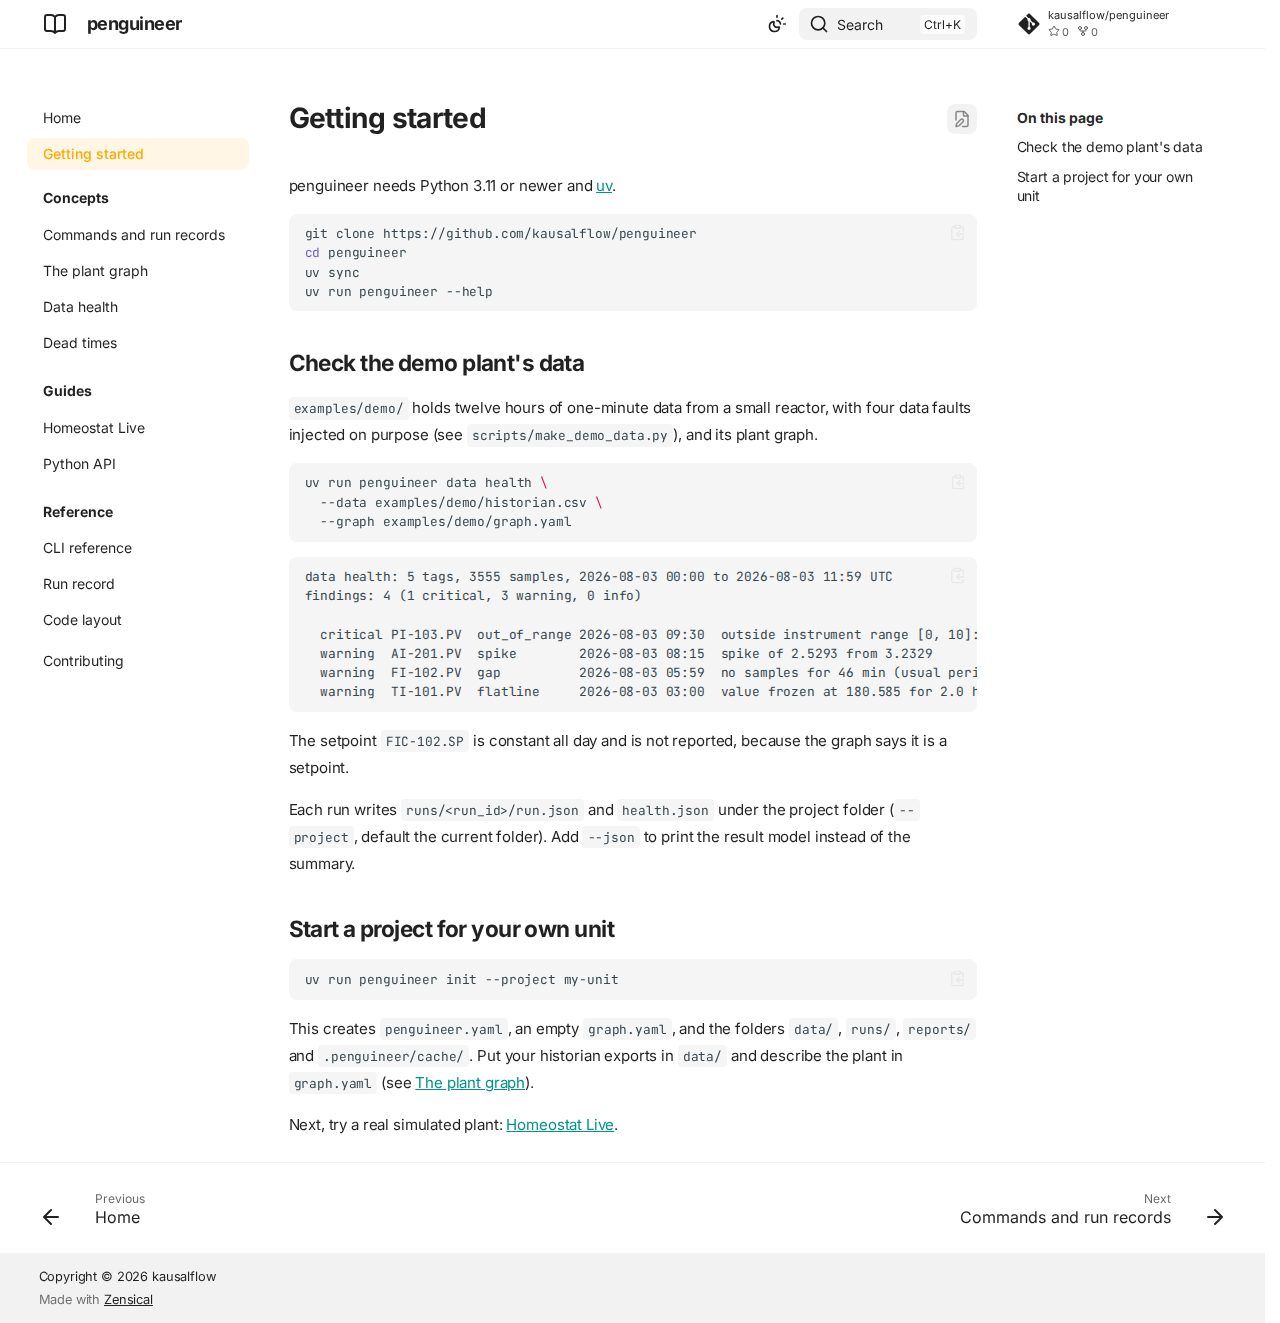
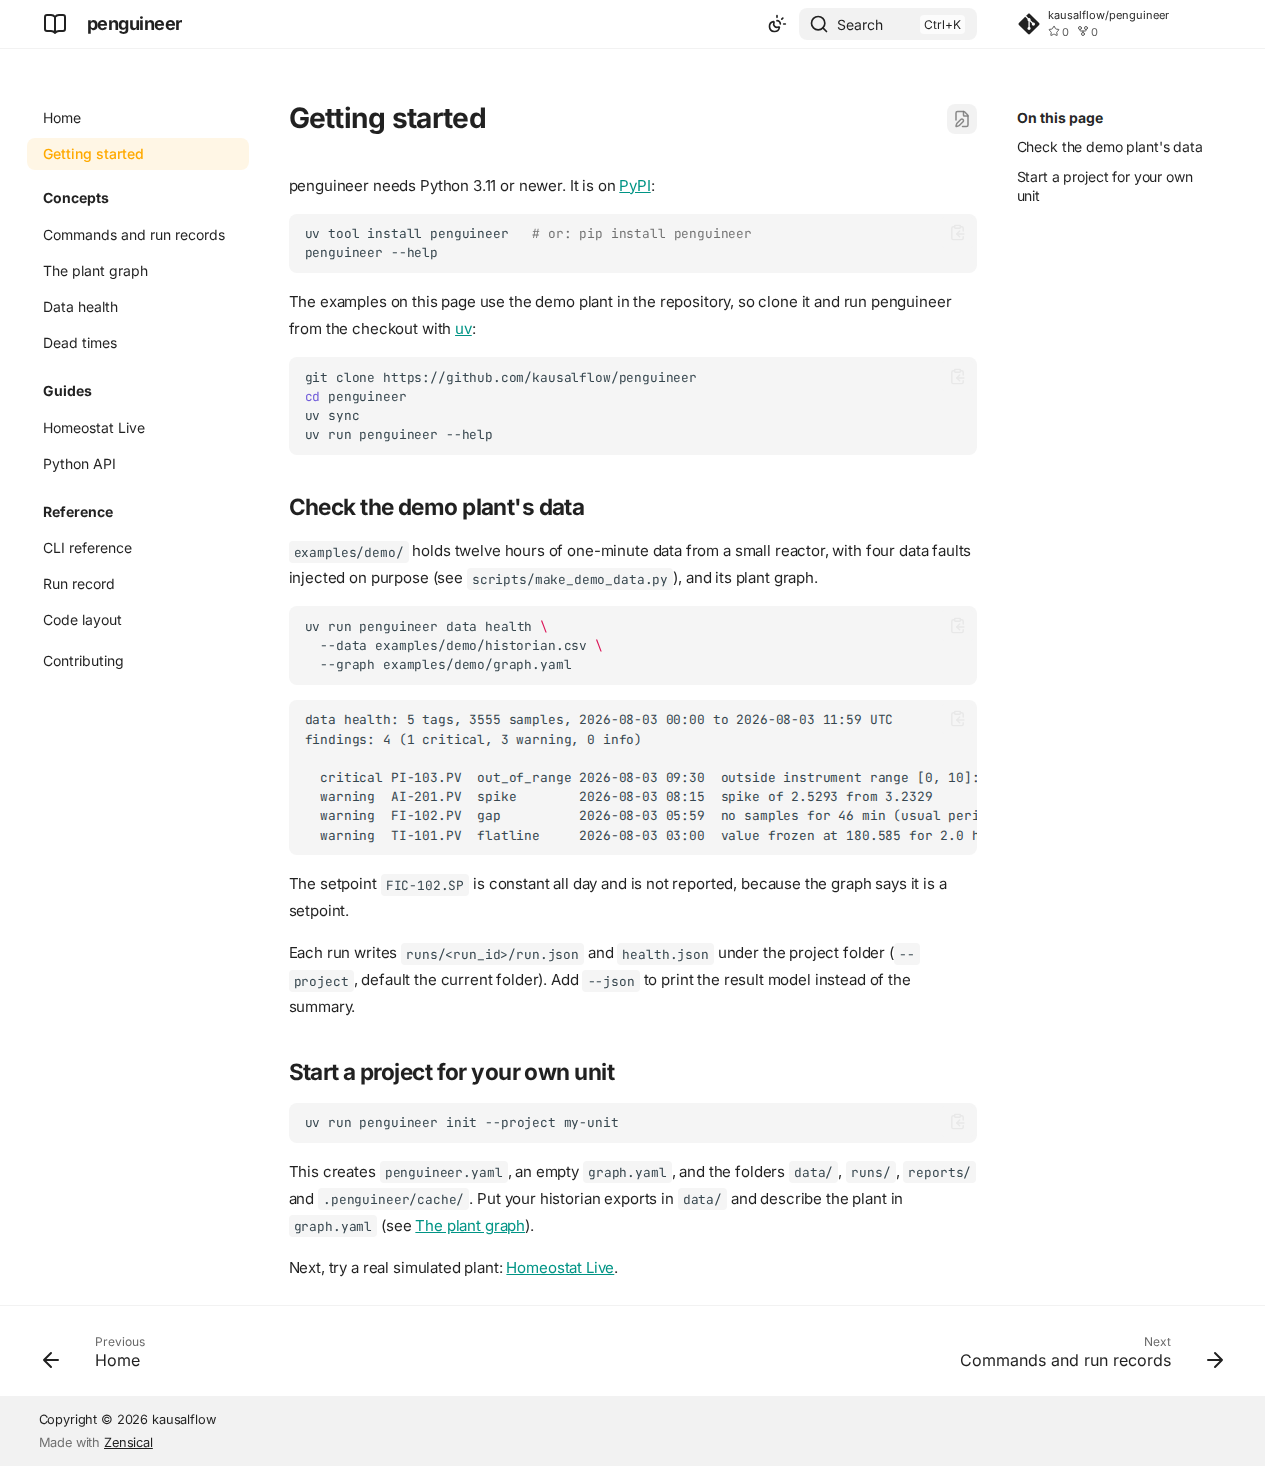
Deploying to gh-pages from @ kausalflow/penguineer@b5f411754c6cf1eea8a0dfbe62071f349a8e955d 🚀

diff --git a/getting-started/index.html b/getting-started/index.html
@@ -928,30 +928,34 @@
 
 
 <h1 id="getting-started">Getting started<a class="headerlink" href="#getting-started" title="Permanent link">&para;</a></h1>
-<p>penguineer needs Python 3.11 or newer and <a href="https://docs.astral.sh/uv/">uv</a>.</p>
-<div class="language-bash highlight"><pre><span></span><code><span id="__span-0-1"><a id="__codelineno-0-1" name="__codelineno-0-1" href="#__codelineno-0-1"></a>git<span class="w"> </span>clone<span class="w"> </span>https://github.com/kausalflow/penguineer
-</span><span id="__span-0-2"><a id="__codelineno-0-2" name="__codelineno-0-2" href="#__codelineno-0-2"></a><span class="nb">cd</span><span class="w"> </span>penguineer
-</span><span id="__span-0-3"><a id="__codelineno-0-3" name="__codelineno-0-3" href="#__codelineno-0-3"></a>uv<span class="w"> </span>sync
-</span><span id="__span-0-4"><a id="__codelineno-0-4" name="__codelineno-0-4" href="#__codelineno-0-4"></a>uv<span class="w"> </span>run<span class="w"> </span>penguineer<span class="w"> </span>--help
+<p>penguineer needs Python 3.11 or newer. It is on <a href="https://pypi.org/project/penguineer/">PyPI</a>:</p>
+<div class="language-bash highlight"><pre><span></span><code><span id="__span-0-1"><a id="__codelineno-0-1" name="__codelineno-0-1" href="#__codelineno-0-1"></a>uv<span class="w"> </span>tool<span class="w"> </span>install<span class="w"> </span>penguineer<span class="w">   </span><span class="c1"># or: pip install penguineer</span>
+</span><span id="__span-0-2"><a id="__codelineno-0-2" name="__codelineno-0-2" href="#__codelineno-0-2"></a>penguineer<span class="w"> </span>--help
+</span></code></pre></div>
+<p>The examples on this page use the demo plant in the repository, so clone it and run penguineer from the checkout with <a href="https://docs.astral.sh/uv/">uv</a>:</p>
+<div class="language-bash highlight"><pre><span></span><code><span id="__span-1-1"><a id="__codelineno-1-1" name="__codelineno-1-1" href="#__codelineno-1-1"></a>git<span class="w"> </span>clone<span class="w"> </span>https://github.com/kausalflow/penguineer
+</span><span id="__span-1-2"><a id="__codelineno-1-2" name="__codelineno-1-2" href="#__codelineno-1-2"></a><span class="nb">cd</span><span class="w"> </span>penguineer
+</span><span id="__span-1-3"><a id="__codelineno-1-3" name="__codelineno-1-3" href="#__codelineno-1-3"></a>uv<span class="w"> </span>sync
+</span><span id="__span-1-4"><a id="__codelineno-1-4" name="__codelineno-1-4" href="#__codelineno-1-4"></a>uv<span class="w"> </span>run<span class="w"> </span>penguineer<span class="w"> </span>--help
 </span></code></pre></div>
 <h2 id="check-the-demo-plants-data">Check the demo plant's data<a class="headerlink" href="#check-the-demo-plants-data" title="Permanent link">&para;</a></h2>
 <p><code>examples/demo/</code> holds twelve hours of one-minute data from a small reactor, with four data faults injected on purpose (see <code>scripts/make_demo_data.py</code>), and its plant graph.</p>
-<div class="language-bash highlight"><pre><span></span><code><span id="__span-1-1"><a id="__codelineno-1-1" name="__codelineno-1-1" href="#__codelineno-1-1"></a>uv<span class="w"> </span>run<span class="w"> </span>penguineer<span class="w"> </span>data<span class="w"> </span>health<span class="w"> </span><span class="se">\</span>
-</span><span id="__span-1-2"><a id="__codelineno-1-2" name="__codelineno-1-2" href="#__codelineno-1-2"></a><span class="w">  </span>--data<span class="w"> </span>examples/demo/historian.csv<span class="w"> </span><span class="se">\</span>
-</span><span id="__span-1-3"><a id="__codelineno-1-3" name="__codelineno-1-3" href="#__codelineno-1-3"></a><span class="w">  </span>--graph<span class="w"> </span>examples/demo/graph.yaml
+<div class="language-bash highlight"><pre><span></span><code><span id="__span-2-1"><a id="__codelineno-2-1" name="__codelineno-2-1" href="#__codelineno-2-1"></a>uv<span class="w"> </span>run<span class="w"> </span>penguineer<span class="w"> </span>data<span class="w"> </span>health<span class="w"> </span><span class="se">\</span>
+</span><span id="__span-2-2"><a id="__codelineno-2-2" name="__codelineno-2-2" href="#__codelineno-2-2"></a><span class="w">  </span>--data<span class="w"> </span>examples/demo/historian.csv<span class="w"> </span><span class="se">\</span>
+</span><span id="__span-2-3"><a id="__codelineno-2-3" name="__codelineno-2-3" href="#__codelineno-2-3"></a><span class="w">  </span>--graph<span class="w"> </span>examples/demo/graph.yaml
 </span></code></pre></div>
-<div class="language-text highlight"><pre><span></span><code><span id="__span-2-1"><a id="__codelineno-2-1" name="__codelineno-2-1" href="#__codelineno-2-1"></a>data health: 5 tags, 3555 samples, 2026-08-03 00:00 to 2026-08-03 11:59 UTC
-</span><span id="__span-2-2"><a id="__codelineno-2-2" name="__codelineno-2-2" href="#__codelineno-2-2"></a>findings: 4 (1 critical, 3 warning, 0 info)
-</span><span id="__span-2-3"><a id="__codelineno-2-3" name="__codelineno-2-3" href="#__codelineno-2-3"></a>
-</span><span id="__span-2-4"><a id="__codelineno-2-4" name="__codelineno-2-4" href="#__codelineno-2-4"></a>  critical PI-103.PV  out_of_range 2026-08-03 09:30  outside instrument range [0, 10]: min 10.918, max 11.114
-</span><span id="__span-2-5"><a id="__codelineno-2-5" name="__codelineno-2-5" href="#__codelineno-2-5"></a>  warning  AI-201.PV  spike        2026-08-03 08:15  spike of 2.5293 from 3.2329
-</span><span id="__span-2-6"><a id="__codelineno-2-6" name="__codelineno-2-6" href="#__codelineno-2-6"></a>  warning  FI-102.PV  gap          2026-08-03 05:59  no samples for 46 min (usual period 60 s)
-</span><span id="__span-2-7"><a id="__codelineno-2-7" name="__codelineno-2-7" href="#__codelineno-2-7"></a>  warning  TI-101.PV  flatline     2026-08-03 03:00  value frozen at 180.585 for 2.0 h
+<div class="language-text highlight"><pre><span></span><code><span id="__span-3-1"><a id="__codelineno-3-1" name="__codelineno-3-1" href="#__codelineno-3-1"></a>data health: 5 tags, 3555 samples, 2026-08-03 00:00 to 2026-08-03 11:59 UTC
+</span><span id="__span-3-2"><a id="__codelineno-3-2" name="__codelineno-3-2" href="#__codelineno-3-2"></a>findings: 4 (1 critical, 3 warning, 0 info)
+</span><span id="__span-3-3"><a id="__codelineno-3-3" name="__codelineno-3-3" href="#__codelineno-3-3"></a>
+</span><span id="__span-3-4"><a id="__codelineno-3-4" name="__codelineno-3-4" href="#__codelineno-3-4"></a>  critical PI-103.PV  out_of_range 2026-08-03 09:30  outside instrument range [0, 10]: min 10.918, max 11.114
+</span><span id="__span-3-5"><a id="__codelineno-3-5" name="__codelineno-3-5" href="#__codelineno-3-5"></a>  warning  AI-201.PV  spike        2026-08-03 08:15  spike of 2.5293 from 3.2329
+</span><span id="__span-3-6"><a id="__codelineno-3-6" name="__codelineno-3-6" href="#__codelineno-3-6"></a>  warning  FI-102.PV  gap          2026-08-03 05:59  no samples for 46 min (usual period 60 s)
+</span><span id="__span-3-7"><a id="__codelineno-3-7" name="__codelineno-3-7" href="#__codelineno-3-7"></a>  warning  TI-101.PV  flatline     2026-08-03 03:00  value frozen at 180.585 for 2.0 h
 </span></code></pre></div>
 <p>The setpoint <code>FIC-102.SP</code> is constant all day and is not reported, because the graph says it is a setpoint.</p>
 <p>Each run writes <code>runs/&lt;run_id&gt;/run.json</code> and <code>health.json</code> under the project folder (<code>--project</code>, default the current folder). Add <code>--json</code> to print the result model instead of the summary.</p>
 <h2 id="start-a-project-for-your-own-unit">Start a project for your own unit<a class="headerlink" href="#start-a-project-for-your-own-unit" title="Permanent link">&para;</a></h2>
-<div class="language-bash highlight"><pre><span></span><code><span id="__span-3-1"><a id="__codelineno-3-1" name="__codelineno-3-1" href="#__codelineno-3-1"></a>uv<span class="w"> </span>run<span class="w"> </span>penguineer<span class="w"> </span>init<span class="w"> </span>--project<span class="w"> </span>my-unit
+<div class="language-bash highlight"><pre><span></span><code><span id="__span-4-1"><a id="__codelineno-4-1" name="__codelineno-4-1" href="#__codelineno-4-1"></a>uv<span class="w"> </span>run<span class="w"> </span>penguineer<span class="w"> </span>init<span class="w"> </span>--project<span class="w"> </span>my-unit
 </span></code></pre></div>
 <p>This creates <code>penguineer.yaml</code>, an empty <code>graph.yaml</code>, and the folders <code>data/</code>, <code>runs/</code>, <code>reports/</code> and <code>.penguineer/cache/</code>. Put your historian exports in <code>data/</code> and describe the plant in <code>graph.yaml</code> (see <a href="../concepts/plant-graph/">The plant graph</a>).</p>
 <p>Next, try a real simulated plant: <a href="../guides/homeostat-live/">Homeostat Live</a>.</p>

diff --git a/contributing/index.html b/contributing/index.html
@@ -844,6 +844,17 @@
   
 </li>
       
+        <li class="md-nav__item">
+  <a href="#releasing" class="md-nav__link">
+    <span class="md-ellipsis">
+      <span class="md-typeset">
+        Releasing
+      </span>
+    </span>
+  </a>
+  
+</li>
+      
     </ul>
   
 </nav>
@@ -936,6 +947,17 @@
   
 </li>
       
+        <li class="md-nav__item">
+  <a href="#releasing" class="md-nav__link">
+    <span class="md-ellipsis">
+      <span class="md-typeset">
+        Releasing
+      </span>
+    </span>
+  </a>
+  
+</li>
+      
     </ul>
   
 </nav>
@@ -1001,6 +1023,13 @@
 </span><span id="__span-3-2"><a id="__codelineno-3-2" name="__codelineno-3-2" href="#__codelineno-3-2"></a>uv<span class="w"> </span>run<span class="w"> </span>--no-project<span class="w"> </span>--with<span class="w"> </span><span class="nv">playwright</span><span class="o">==</span><span class="m">1</span>.56.0<span class="w"> </span>python<span class="w"> </span>scripts/screenshot_docs.py<span class="w"> </span>site
 </span></code></pre></div>
 <p>A pull request description includes the preview link and screenshots of the pages it changes, and of any visible output such as a command's summary. The pull request template has sections for both.</p>
+<h2 id="releasing">Releasing<a class="headerlink" href="#releasing" title="Permanent link">&para;</a></h2>
+<p>penguineer and plantgraph are published to PyPI together, with one version. <code>.github/workflows/release.yml</code> builds both, installs the wheels in a clean environment, and publishes them with PyPI trusted publishing when a GitHub release is published. No token is stored in the repository.</p>
+<ol>
+<li>Set the new version in <code>pyproject.toml</code>, in <code>packages/plantgraph/pyproject.toml</code>, and in penguineer's <code>plantgraph==</code> pin (<code>tests/test_versions.py</code> checks that the three agree), then run <code>uv lock</code>. Merge that to <code>main</code>.</li>
+<li>On GitHub, create a release from <code>main</code> with the tag <code>v&lt;version&gt;</code>, for example <code>v0.1.0</code>. The workflow stops if the tag does not match the version.</li>
+</ol>
+<p>PyPI side, done once per project (<code>penguineer</code> and <code>plantgraph</code>): add a trusted publisher with owner <code>kausalflow</code>, repository <code>penguineer</code>, workflow <code>release.yml</code> and environment <code>pypi</code>. Before a project's first release, add it as a pending publisher under <em>Your account &gt; Publishing</em>.</p>
 
 
 
